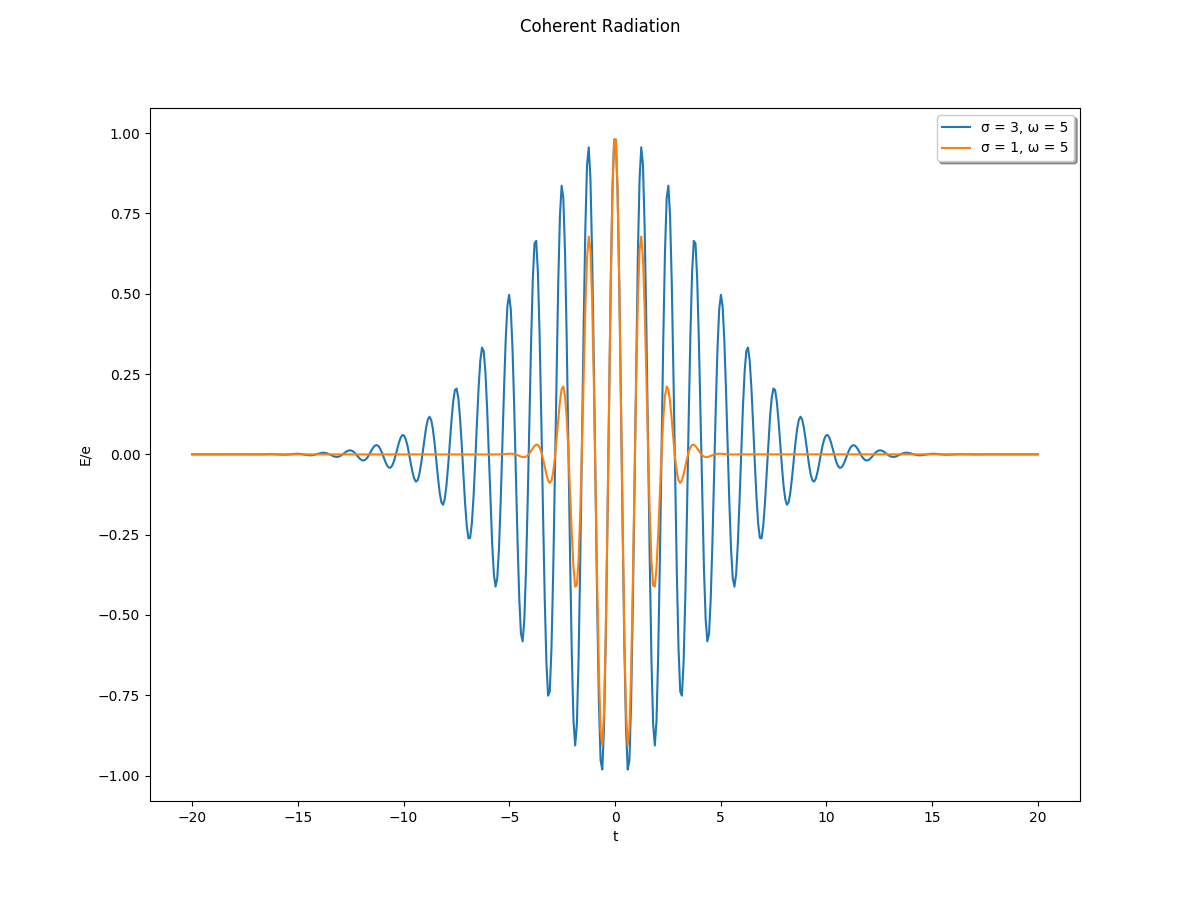
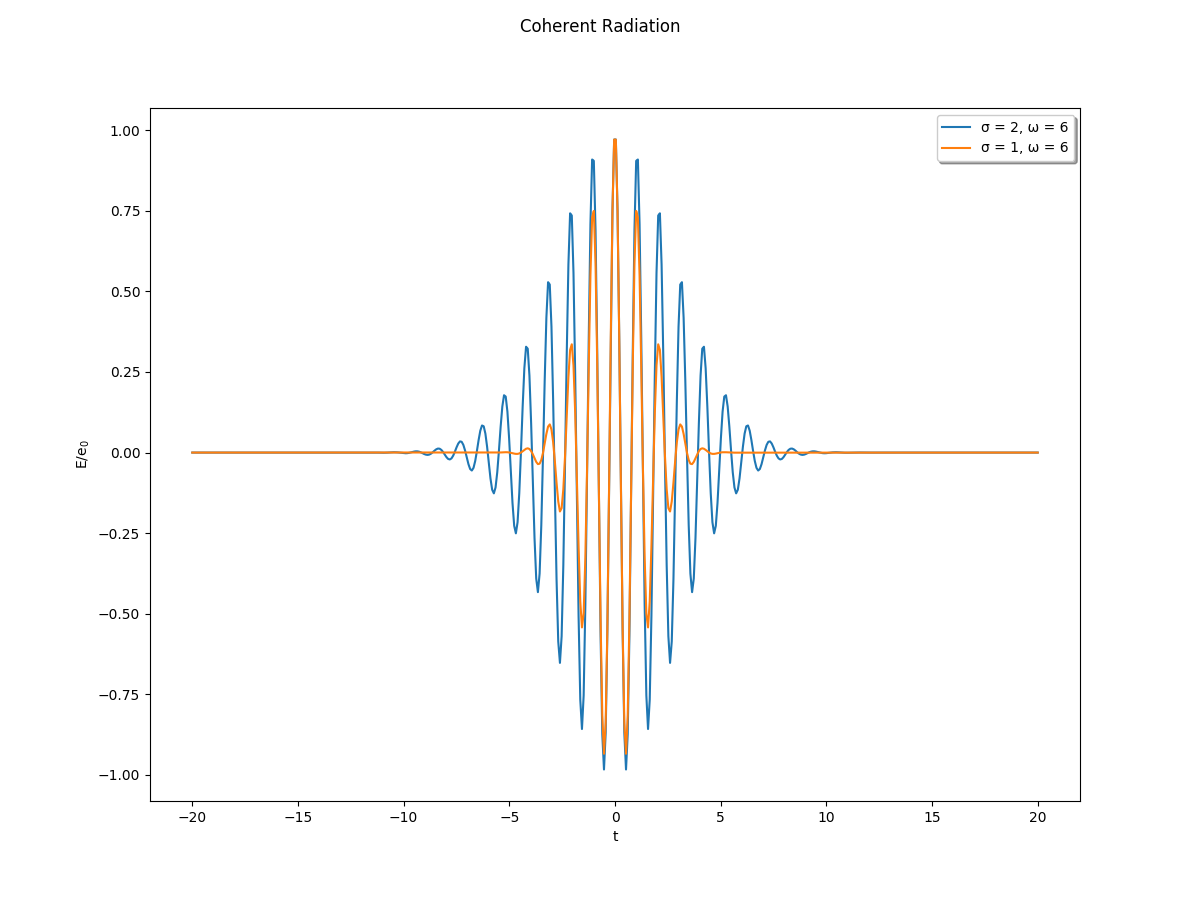
Added TLS script

diff --git a/FEL/TLS.py b/FEL/TLS.py
@@ -1,0 +1,83 @@
+#!/usr/bin/env python
+# -*- coding: utf-8 -*-
+
+import numpy as np
+import matplotlib.pyplot as plt
+import FEL_gaussian as FEL
+
+temp = FEL.Temporal(sigma=2,omega=6)
+
+class TwoLevelSystem:
+	
+	def __init__(self,rabi_param,e1=-13.6,e2=-3.40,delta=0,omega=None):
+		# all physical quantities are presented here in SI units
+		self.a0 = 5.29*1e-11 		# first Bohr radius
+		self.hbar = 1.054*1e-34 
+		self.e1 = e1 * 1.602*1e-19 	# 1s orbital energy
+		self.e2 = e2 * 1.602*1e-19 	# 2p orbital energy
+		self.omega = omega 			# omega is picked arbitrary, but close to (e2-e1)/hbar
+		if omega != None:	# allows user to manually set delta based on laser frequency omega
+			self.delta = (self.e2/self.hbar) - (self.e1/self.hbar) - self.omega
+		else: 
+			self.delta = delta
+		self.rabi_param = rabi_param
+		self.det_rabi_param = np.sqrt( (self.delta**2) + (4*(abs(rabi_param)**2)) )
+		
+	def u1(self,t):
+		e_term = np.exp(-1j * self.delta * t / 2) / self.det_rabi_param
+		cos_term = self.det_rabi_param * np.cos(self.det_rabi_param * t / 2)
+		sin_term = 1j * self.delta * np.sin(self.det_rabi_param * t / 2)
+		return e_term * (cos_term + sin_term)
+		
+	def u1_squared(self,t):
+		return 1 - self.u2_squared(t)
+		
+	def u2(self,t):
+		rabi_term = -(2j * np.conjugate(self.rabi_param)) / self.det_rabi_param
+		e_term = np.exp(-1j * self.delta * t / 2)
+		sin_term = np.sin(self.det_rabi_param * t / 2)
+		return rabi_term * e_term * sin_term
+		
+	def u2_squared(self,t):
+		first_term = 4 * (abs(self.rabi_param)**2) / (abs(self.det_rabi_param)**2)
+		second_term = (np.sin(self.det_rabi_param * t / 2))**2
+		return first_term * second_term
+		
+	def wavefunc_1s(self):
+		pass
+	
+	def wavefunc_2p(self):
+		pass
+
+
+def SIMPLE_AMPLITUDES():
+	time_vals = np.linspace(0,10,500)
+	u2_sq_vals = np.array([])
+	for t in time_vals:
+		u2_sq_vals = np.append(u2_sq_vals,tls.u2_squared(t))
+	u1_sq_vals = 1 - u2_sq_vals
+	u1_data = {
+				'x_vals':time_vals,
+				'y_vals':u1_sq_vals,
+				'label':'$|u_1(t)|^2$'
+				}
+	u2_data = {
+				'x_vals':time_vals,
+				'y_vals':u2_sq_vals,
+				'label':'$|u_2(t)|^2$'
+				}
+	FEL.plot_graph(
+					data_dicts=[u1_data,u2_data],
+					fig_name='Populations of states vs time',
+					title='TDSE amplitude coefficients vs time, \u03B4 = {}'.format(tls.delta),
+					xlabel='Time',
+					ylabel='Probability of electron found in state',
+					savefig_name=None
+				)
+					
+		
+if __name__ == '__main__':
+	tls = TwoLevelSystem(rabi_param=1,delta=1)
+	SIMPLE_AMPLITUDES()
+	
+	

diff --git a/FEL/FEL_gaussian.py b/FEL/FEL_gaussian.py
@@ -22,12 +22,12 @@ plt.rcParams["figure.figsize"] = fig_size
 #---------------------------------------------------------------------------------------------------
 
 def main():
-	#SHOW_COHERENT_RADIATION()
+	SHOW_COHERENT_RADIATION()
 	#SHOW_INCOHERENT_RADIATION(100,subplots=True,plot_superposition=True,plot_intensity=True)
 	#INCOHERENT_AVERAGE_INTENSITY_VS_NUM_SOURCES()
 	#SHOW_INCOHERENT_RADIATION_OMEGA(100,plot_superposition=True,plot_intensity=True)
-	MONTE_CARLO_INTENSITY_TIME(num_trials=500,num_pulses=100,bunch_length=100,show_result=True)
-	MONTE_CARLO_INTENSITY_OMEGA(num_trials=500,num_pulses=100,bunch_length=100,show_result=True)
+	#MONTE_CARLO_INTENSITY_TIME(num_trials=500,num_pulses=100,bunch_length=100,show_result=True)
+	#MONTE_CARLO_INTENSITY_OMEGA(num_trials=500,num_pulses=100,bunch_length=100,show_result=True)
 	
 	
 #---------------------------------------------------------------------------------------------------
@@ -163,8 +163,8 @@ def plot_subplots(data_dicts,fig_name,title,small_title,xlabel,savefig_name=None
 
 
 def SHOW_COHERENT_RADIATION():
-	coherent_vals0 = temp.model_coherent_rad_once()
-	coherent_vals1 = temp.model_coherent_rad_once()
+	coherent_vals0 = temp.model_coherent_rad_once(sigma=2)
+	coherent_vals1 = temp.model_coherent_rad_once(sigma=1)
 	plot_graph([coherent_vals0,coherent_vals1],'Coherent Radiation','Coherent Radiation','t',
 				'E/e$_0$','coherent_radiation')
 	
